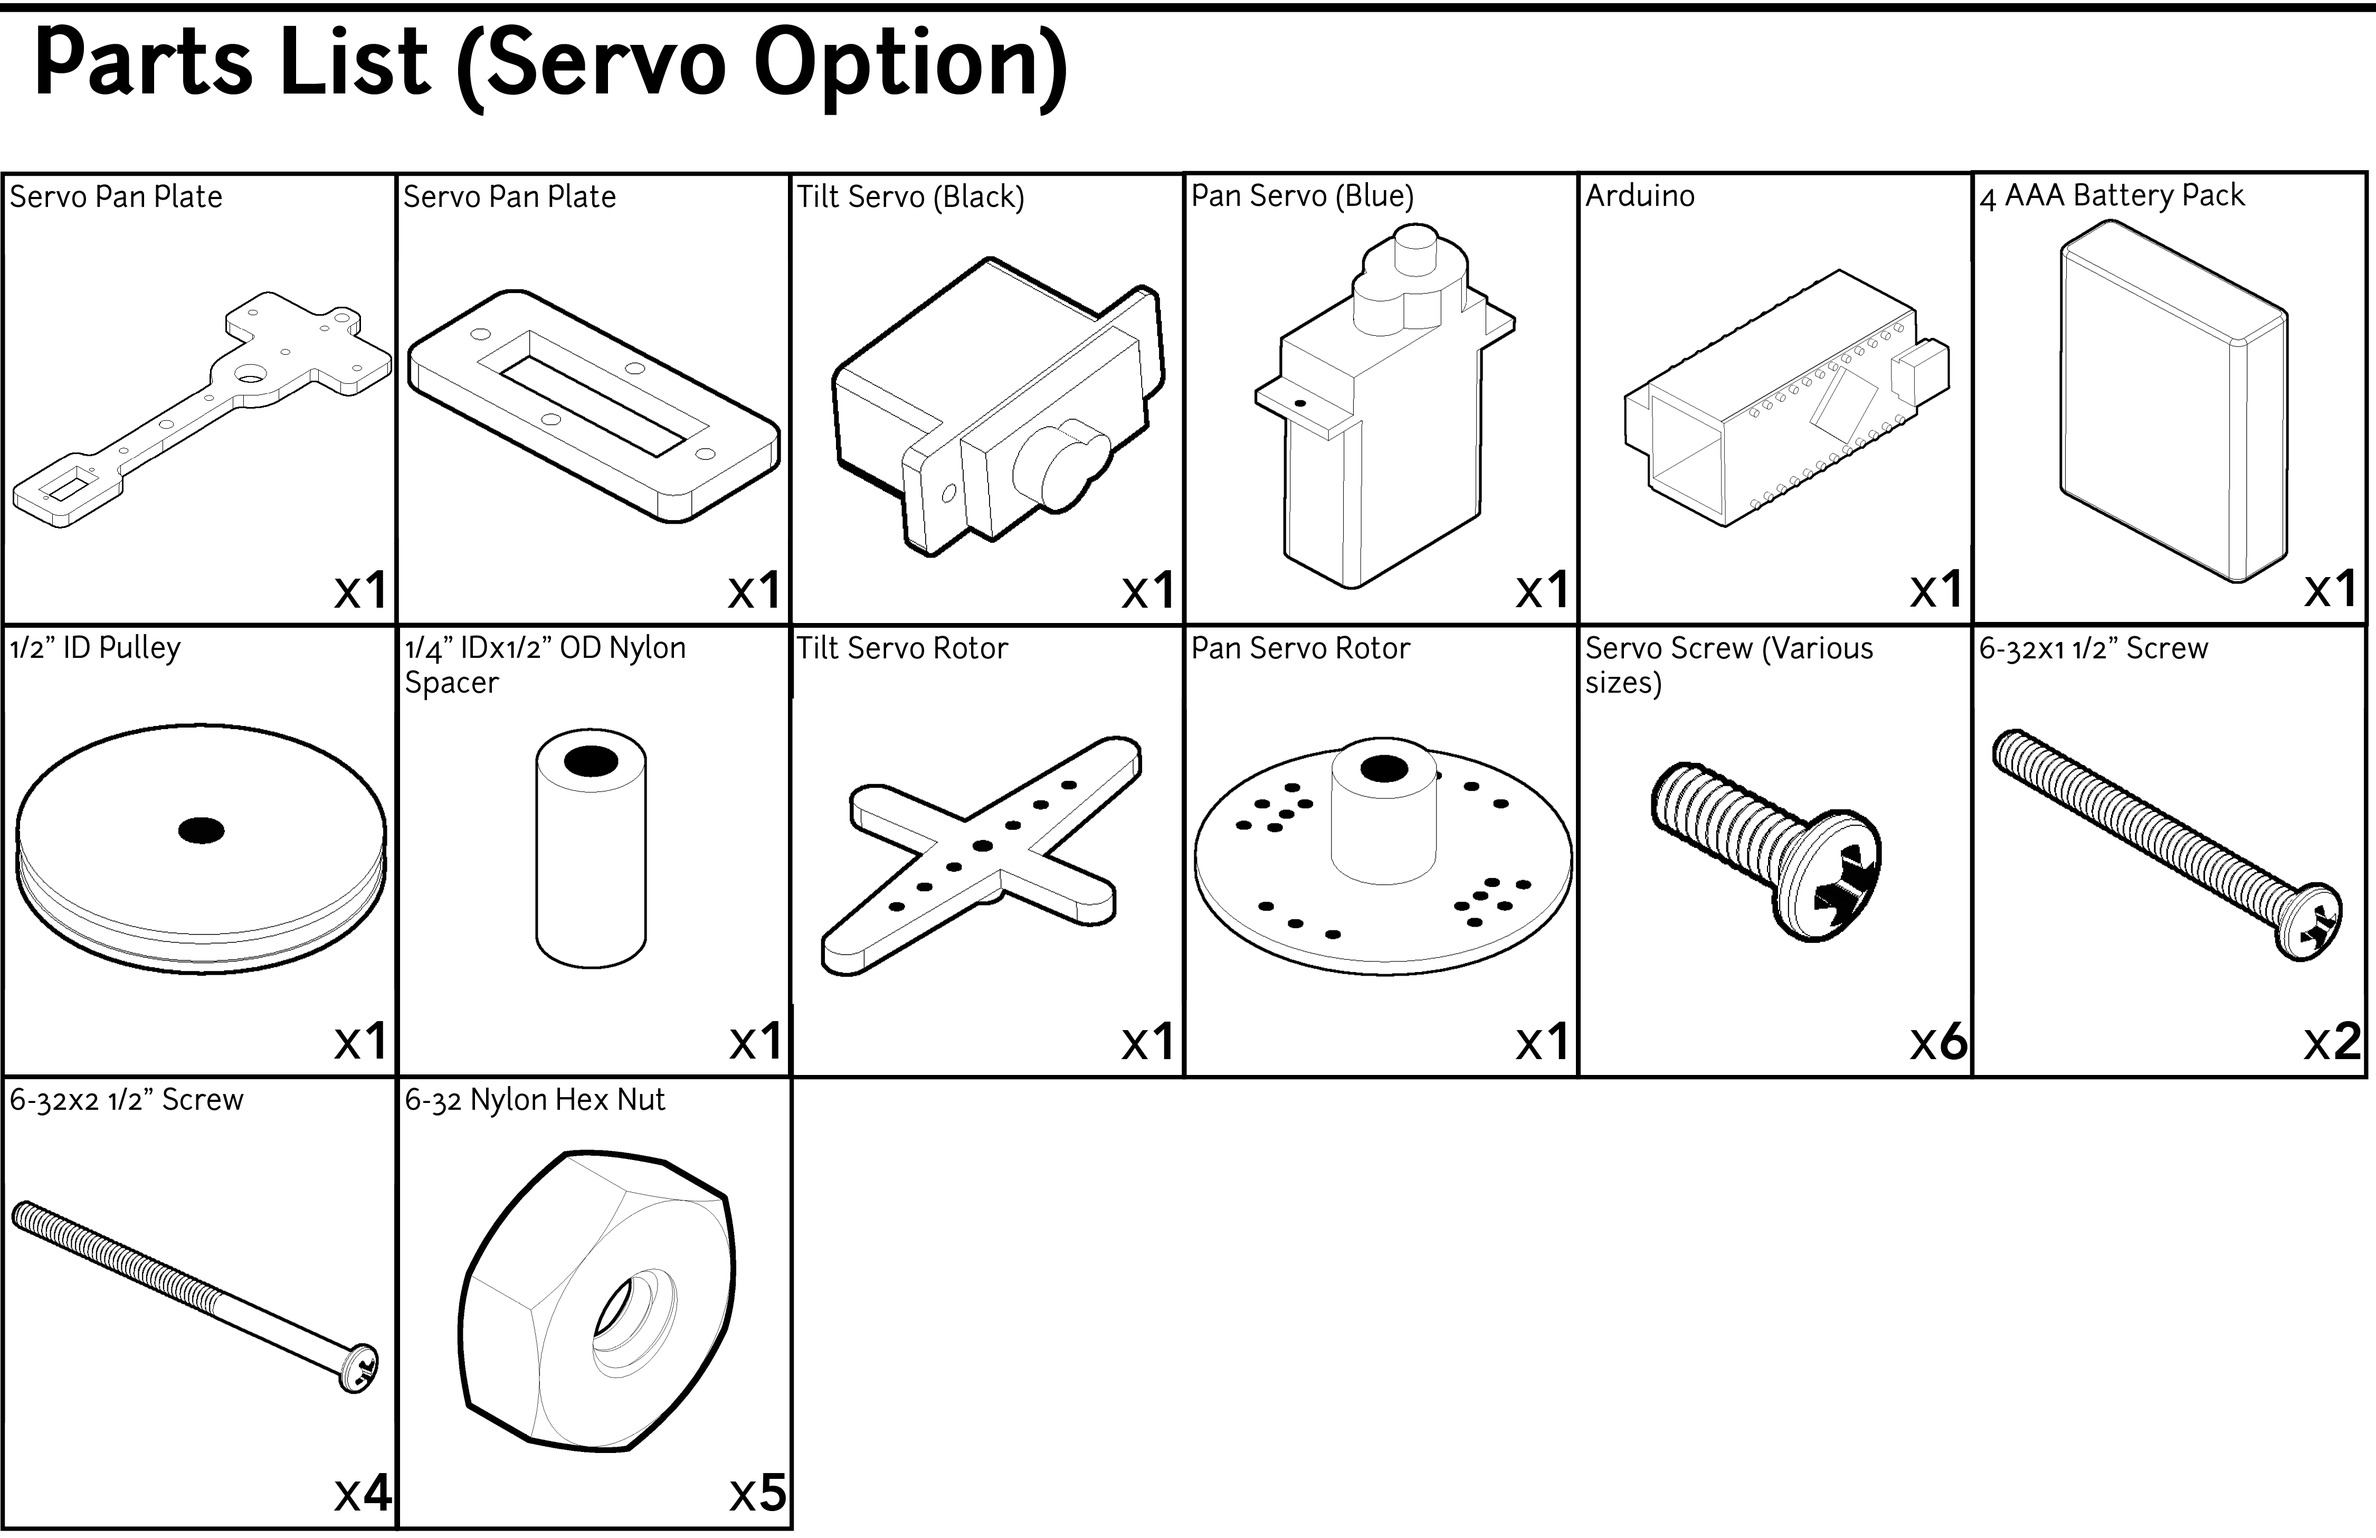
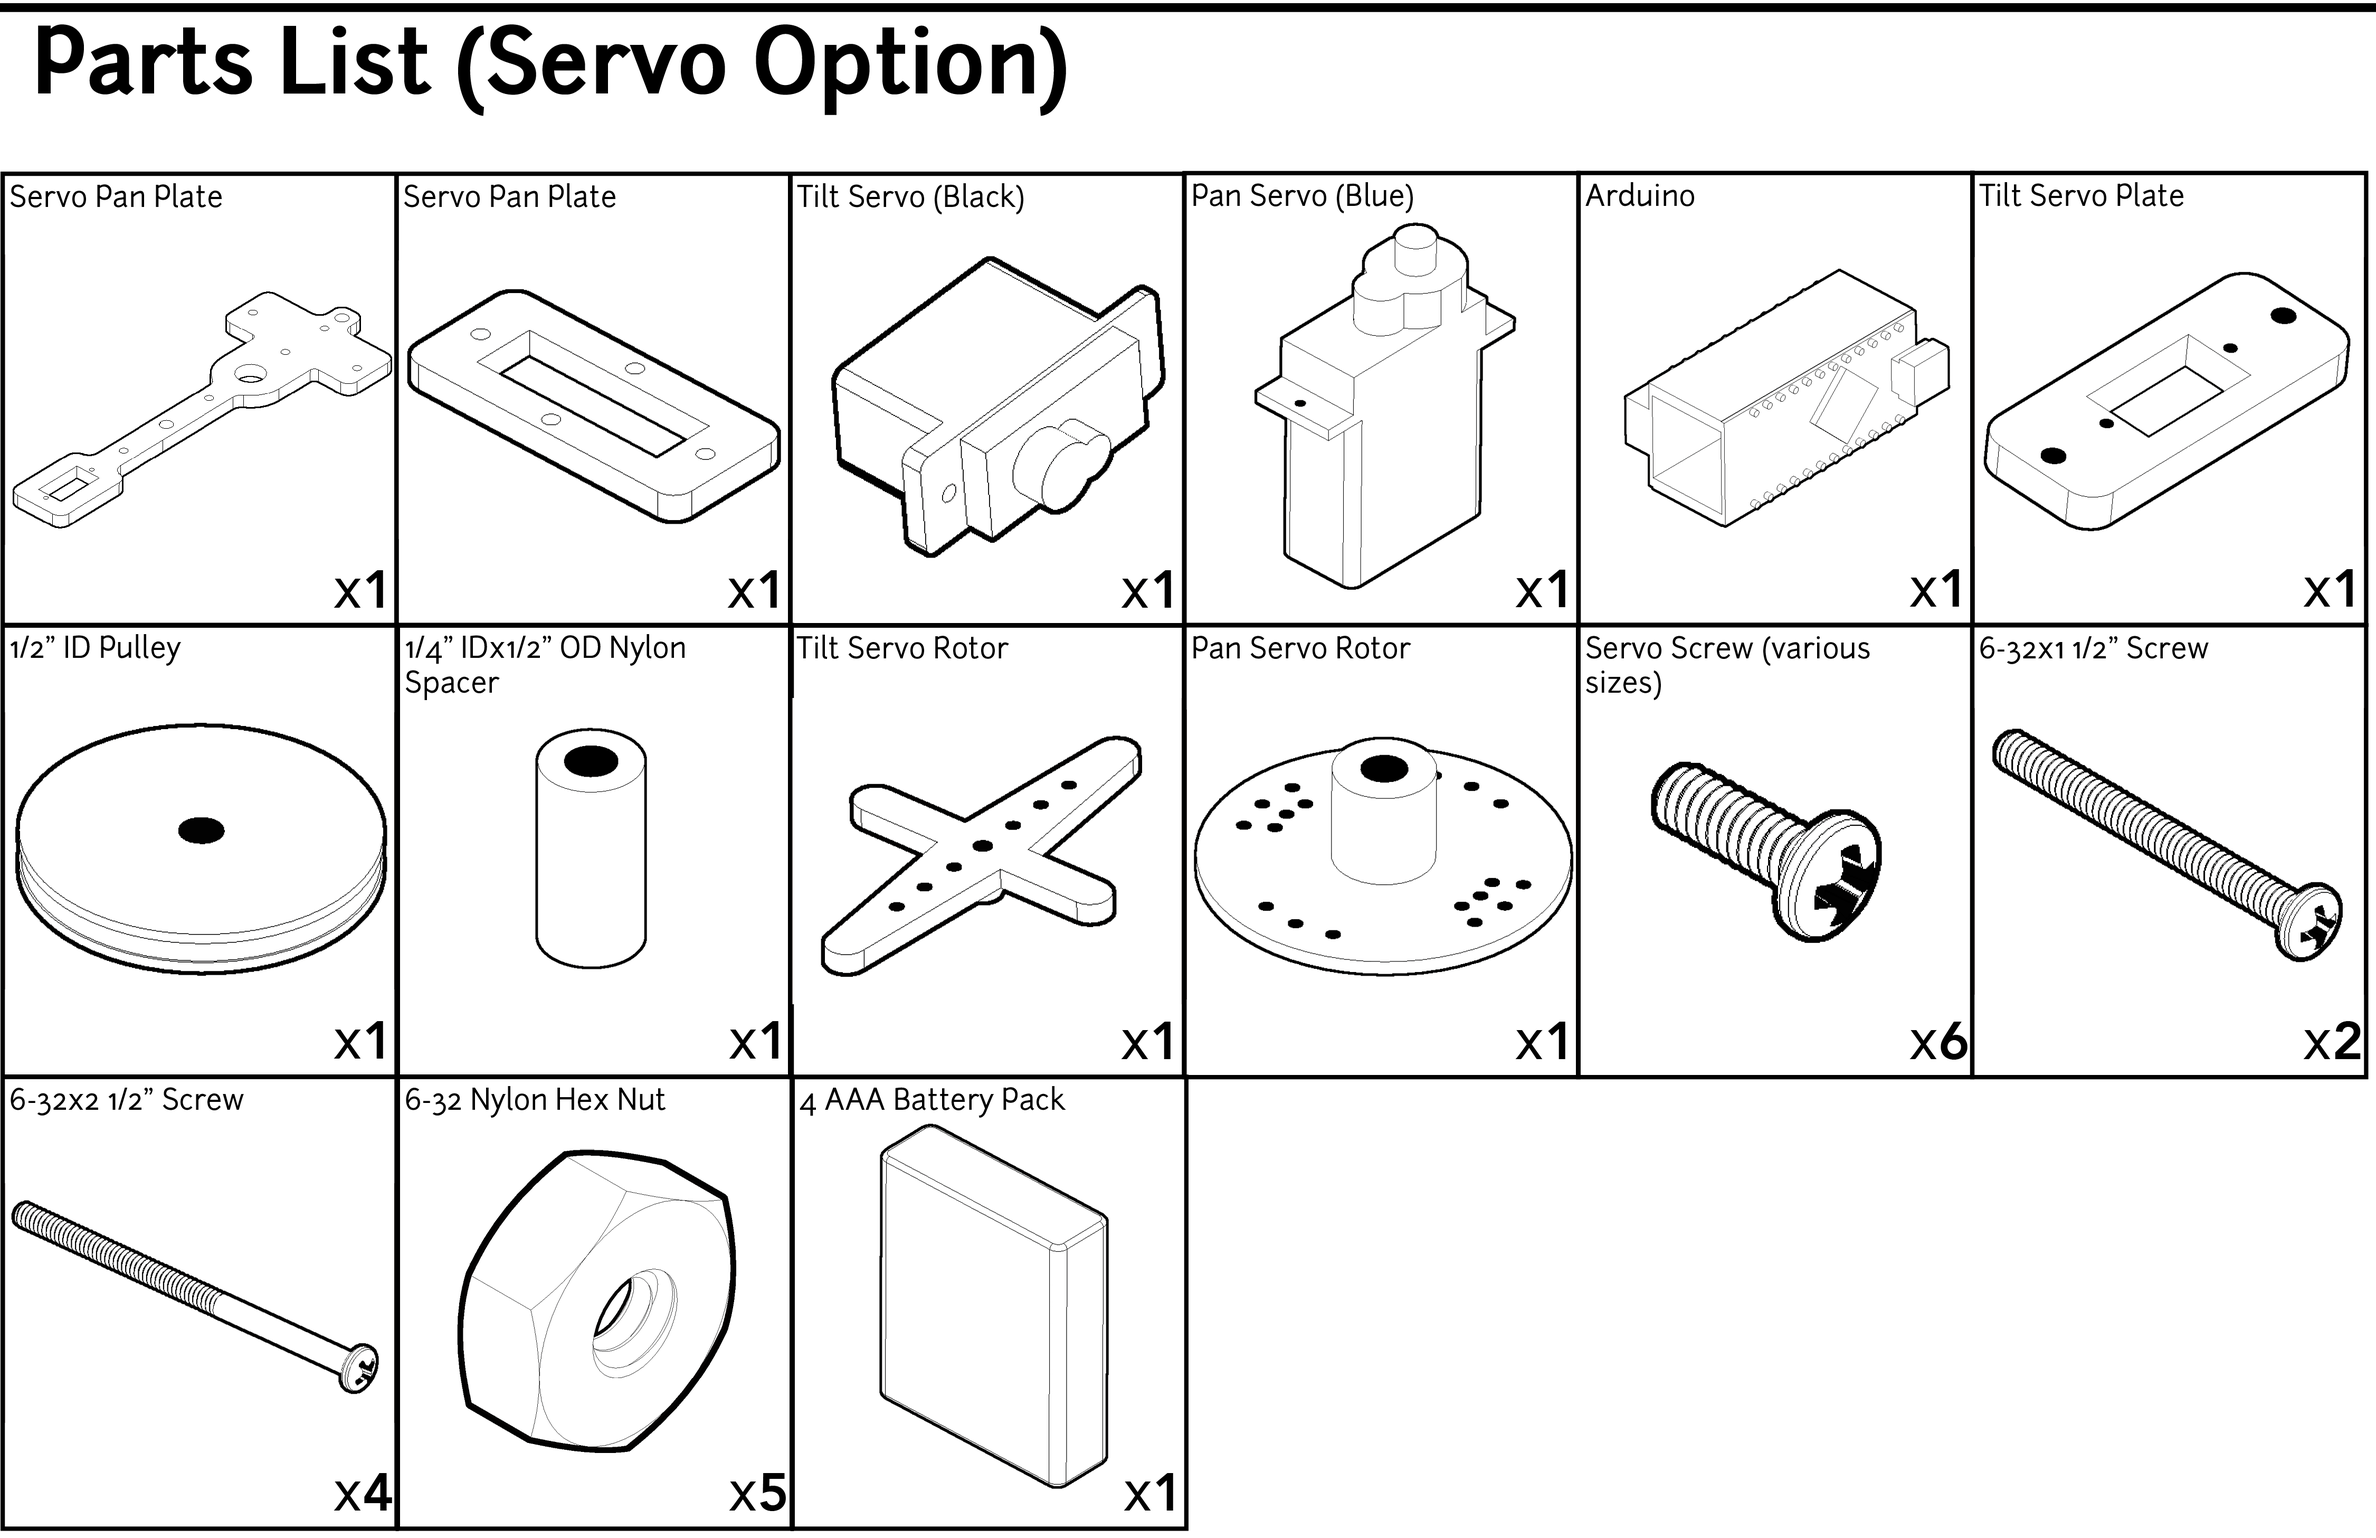
Added Servo Configuration to parts list

diff --git a/Part Acquisition List/Part Acquisition List.md b/Part Acquisition List/Part Acquisition List.md
@@ -1,4 +1,4 @@
-![#1 or #2 Wood Screw](/Part Acquisition List/1Screw.png)
+#Part Acquisition List
 
 ![#6 Nylon Spacer](/Part Acquisition List/6Spacer.png)
 
@@ -61,3 +61,34 @@
 ![14-Gauge Coated Wire](/Part Acquisition List/Wire.png)
 
 ![1/4" ID X-Profile O-Ring](/Part Acquisition List/XProfileORing.png)
+
+#Part Acquisition List (Servo Option)
+
+![Servo11-2"ScrewAcquisition](/Part Acquisition List/Servo11-2"ScrewAcquisition.png) 
+
+![Servo21-2"ScrewAcquisition](/Part Acquisition List/Servo21-2"ScrewAcquisition.png) 
+
+![ServoArduinoAcquisition](/Part Acquisition List/ServoArduinoAcquisition.png) 
+
+![ServoBatteryAcquisition](/Part Acquisition List/ServoBatteryAcquisition.png) 
+
+![ServoBatteryPlateAcquisition](/Part Acquisition List/ServoBatteryPlateAcquisition.png) 
+
+![ServoHexNutAcquisition](/Part Acquisition List/ServoHexNutAcquisition.png) 
+
+![ServoNylonSpacerAcquisition](/Part Acquisition List/ServoNylonSpacerAcquisition.png) 
+
+![ServoPanAcquisition](/Part Acquisition List/ServoPanAcquisition.png) 
+
+![ServoPanPlateAcquisition](/Part Acquisition List/ServoPanPlateAcquisition.png) 
+
+![ServoPanRotorAcquisition](/Part Acquisition List/ServoPanRotorAcquisition.png) 
+
+![ServoPulleyAcquisition](/Part Acquisition List/ServoPulleyAcquisition.png) 
+
+![ServoScrewAcquisition](/Part Acquisition List/ServoScrewAcquisition.png) 
+
+![ServoTiltAcquisition](/Part Acquisition List/ServoTiltAcquisition.png) 
+
+![ServoTiltPlateAcquisition](/Part Acquisition List/ServoTiltPlateAcquisition.png) 
+
